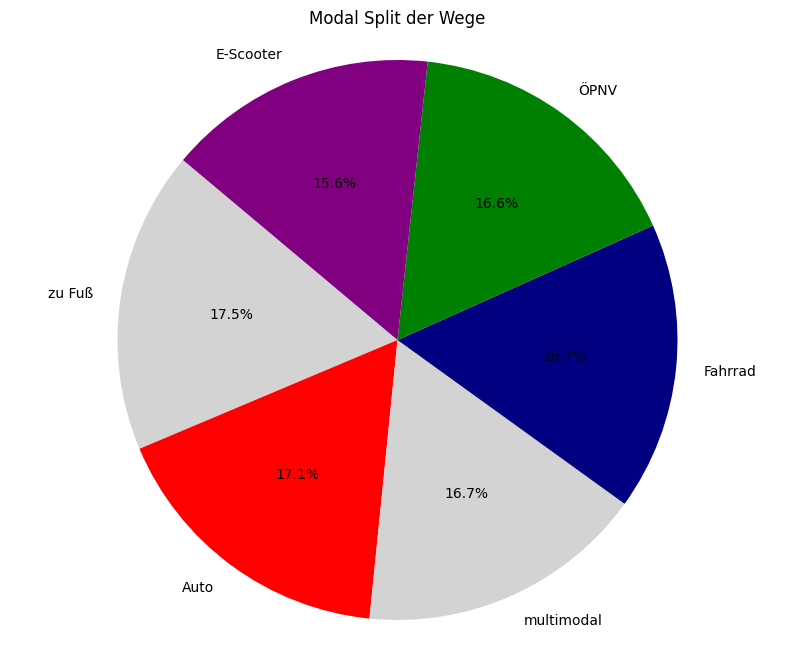
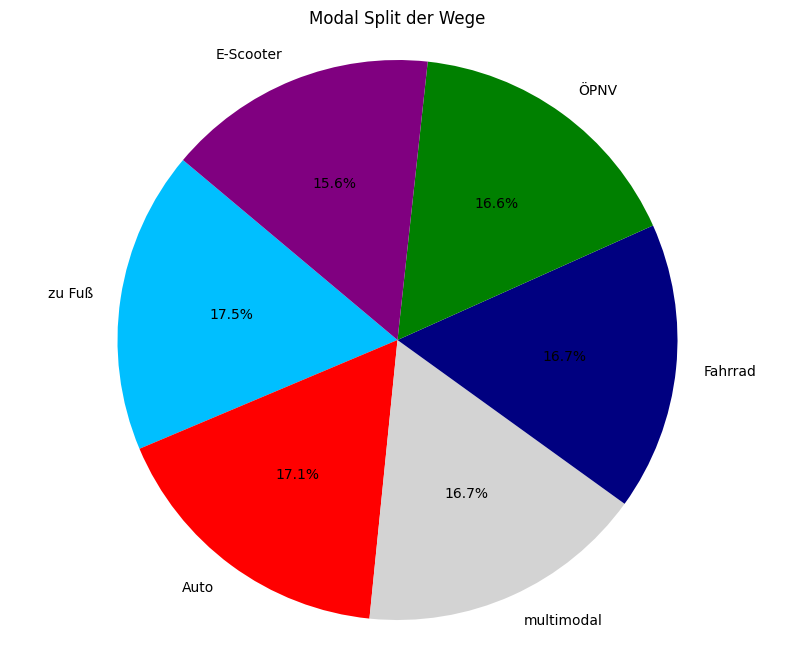
added modal split for distance and pie chart

Changed region(s): [[0.1209, 0.2432, 0.5139, 0.6991]]

diff --git a/6_Part 3 Analysis/visualization.py b/6_Part 3 Analysis/visualization.py
@@ -9,6 +9,7 @@ from openpyxl.utils import get_column_letter
 CSV_PATH = os.path.join("3_Data for analysis", "wegetagebuch_karlsruhe_koordinaten.csv")
 OUTPUT_FOLDER = "7_Part 4 Graphics and tables"
 
+# Hauptspeicherpfade
 OUTPUT_CSV_PATH = os.path.join(OUTPUT_FOLDER, "Stadtteilbeziehungen_Wegeanzahl.csv")
 OUTPUT_XLSX_PATH = os.path.join(OUTPUT_FOLDER, "Stadtteilbeziehungen_Wegeanzahl.xlsx")
 RANKING_CSV_PATH = os.path.join(OUTPUT_FOLDER, "Stadtteile_Ranking.csv")
@@ -21,6 +22,9 @@ MULTIMODAL_XLSX_PATH = os.path.join(OUTPUT_FOLDER, "Multimodalität.xlsx")
 MODAL_SPLIT_CSV_PATH = os.path.join(OUTPUT_FOLDER, "Modal Split_Wege.csv")
 MODAL_SPLIT_XLSX_PATH = os.path.join(OUTPUT_FOLDER, "Modal Split_Wege.xlsx")
 MODAL_SPLIT_PIE_PATH = os.path.join(OUTPUT_FOLDER, "Modal Split_Wege.png")
+MODAL_SPLIT_KM_CSV_PATH = os.path.join(OUTPUT_FOLDER, "Modal Split_Personenkilometer.csv")
+MODAL_SPLIT_KM_XLSX_PATH = os.path.join(OUTPUT_FOLDER, "Modal Split_Personenkilometer.xlsx")
+MODAL_SPLIT_KM_PIE_PATH = os.path.join(OUTPUT_FOLDER, "Modal Split_Personenkilometer.png")
 
 # === Hilfsfunktion zur Excel-Formatierung
 def format_excel(filepath):
@@ -149,7 +153,7 @@ multimodal_df.to_csv(MULTIMODAL_CSV_PATH, index=False, encoding='utf-8-sig')
 multimodal_df.to_excel(MULTIMODAL_XLSX_PATH, index=False)
 format_excel(MULTIMODAL_XLSX_PATH)
 
-# === 6. Modal Split Analyse
+# === 6. Modal Split Wege (Anteile nach Wegen)
 modal_split_valid = df.dropna(subset=["Verkehrsmittel"])
 modal_split = (
     modal_split_valid["Verkehrsmittel"].value_counts(normalize=True) * 100
@@ -162,10 +166,10 @@ modal_split.to_csv(MODAL_SPLIT_CSV_PATH, index=False, encoding='utf-8-sig')
 modal_split.to_excel(MODAL_SPLIT_XLSX_PATH, index=False)
 format_excel(MODAL_SPLIT_XLSX_PATH)
 
-# === 7. Kreisdiagramm Modal Split
+# Farben Modal Split korrekt angepasst auf "zu Fuß"
 farben_dict_modal_split = {
     "Auto": "red",
-    "Zu Fuß": "deepskyblue",
+    "zu Fuß": "deepskyblue",
     "Fahrrad": "navy",
     "ÖPNV": "green",
     "Multimodal": "orange",
@@ -187,4 +191,30 @@ plt.title("Modal Split der Wege")
 plt.savefig(MODAL_SPLIT_PIE_PATH, bbox_inches='tight')
 plt.close()
 
-print("✅ Alle Analysen, Tabellen und Diagramme wurden erfolgreich erstellt und gespeichert.")
+# === 7. Modal Split Personenkilometer
+modal_split_km = df.dropna(subset=["Verkehrsmittel", "Entfernung_km"])
+modal_split_km_grouped = modal_split_km.groupby("Verkehrsmittel")["Entfernung_km"].sum()
+modal_split_km_percent = (modal_split_km_grouped / modal_split_km_grouped.sum() * 100).reset_index()
+modal_split_km_percent.columns = ["Verkehrsmittel", "Prozentuale Verteilung"]
+modal_split_km_percent["Prozentuale Verteilung"] = modal_split_km_percent["Prozentuale Verteilung"].round(2)
+
+modal_split_km_percent.to_csv(MODAL_SPLIT_KM_CSV_PATH, index=False, encoding='utf-8-sig')
+modal_split_km_percent.to_excel(MODAL_SPLIT_KM_XLSX_PATH, index=False)
+format_excel(MODAL_SPLIT_KM_XLSX_PATH)
+
+farben_modal_km = [farben_dict_modal_split.get(vm, "lightgrey") for vm in modal_split_km_percent["Verkehrsmittel"]]
+
+fig, ax = plt.subplots(figsize=(10, 8))
+ax.pie(
+    modal_split_km_percent["Prozentuale Verteilung"],
+    labels=modal_split_km_percent["Verkehrsmittel"],
+    autopct="%1.1f%%",
+    startangle=140,
+    colors=farben_modal_km
+)
+ax.axis('equal')
+plt.title("Modal Split der Personenkilometer")
+plt.savefig(MODAL_SPLIT_KM_PIE_PATH, bbox_inches='tight')
+plt.close()
+
+print("✅ Alle Dateien und Diagramme wurden erfolgreich erstellt und gespeichert.")
